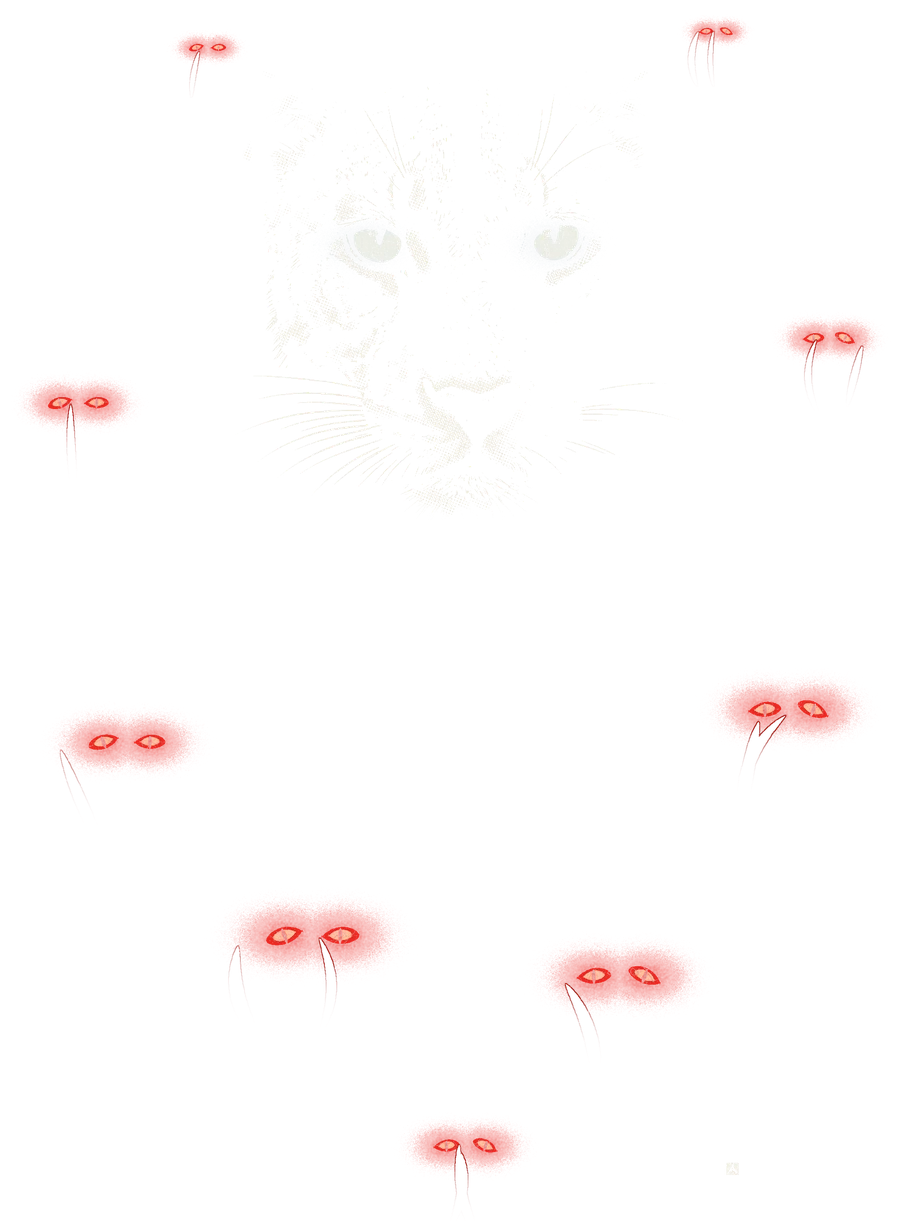
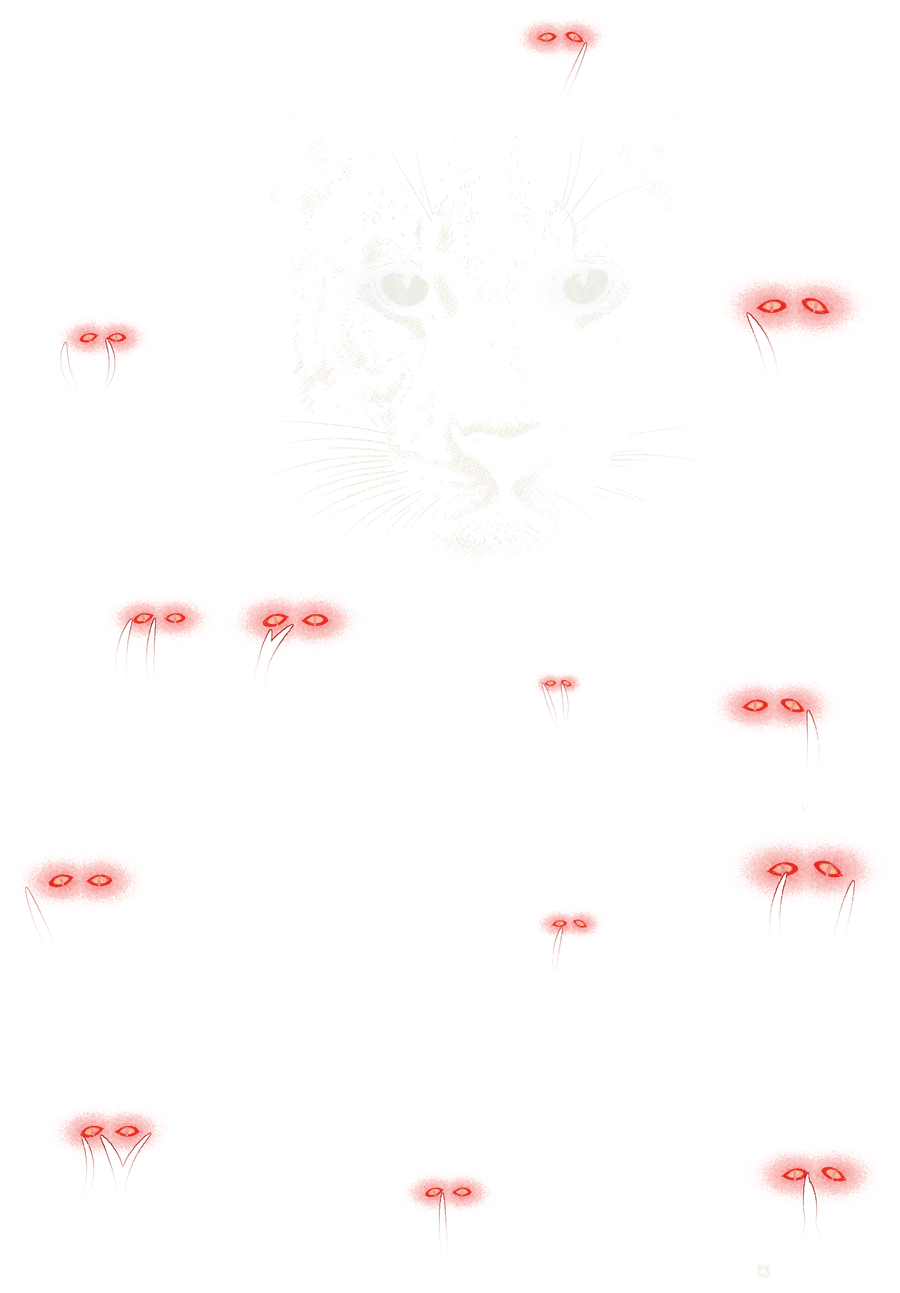
Design lab: NIGHT HUNT, the hunters' eyes at random all round, front and back

diff --git a/lib/lab.ts b/lib/lab.ts
@@ -365,12 +365,12 @@ const batch02: LabDesign[] = [
   {
     id: 'nighthunt', name: 'NIGHT HUNT', colour: 'Black', swatch: '#1d1d1d', field: 'Night',
     line: 'One against all.',
-    story: 'They came to hunt it. On your back a black panther steps out of the dark, only its pale eyes and whiskers lit, and close round it, a metre or two off, red eyes watch through the grass. On your front, low behind the grass, more of them: they are right behind you too.',
+    story: 'They came to hunt it. On your back a black panther steps out of the dark, only its pale eyes and whiskers lit, and all round it, a metre or two off, red eyes watch through the grass from every side. On your front, more of them, scattered: they are round you too.',
     print: 'A big cat\u2019s face in the dark, surrounded by red eyes; red eyes scattered on the front',
     status: 'test', show: true, range: 'batch02',
     shots: [{ label: 'Back', src: 'lab/nighthunt/back.webp' }, { label: 'Front', src: 'lab/nighthunt/front.webp' }],
     refs: [
-      { src: 'lab/nighthunt/back-print.webp', w: 900, h: 1221, label: 'The back print', bg: '#151515' },
+      { src: 'lab/nighthunt/back-print.webp', w: 900, h: 1293, label: 'The back print', bg: '#151515' },
       { src: 'lab/nighthunt/wrap.jpg', w: 1400, h: 1172, label: 'Front and back' },
     ],
     note: MOCKUP,
